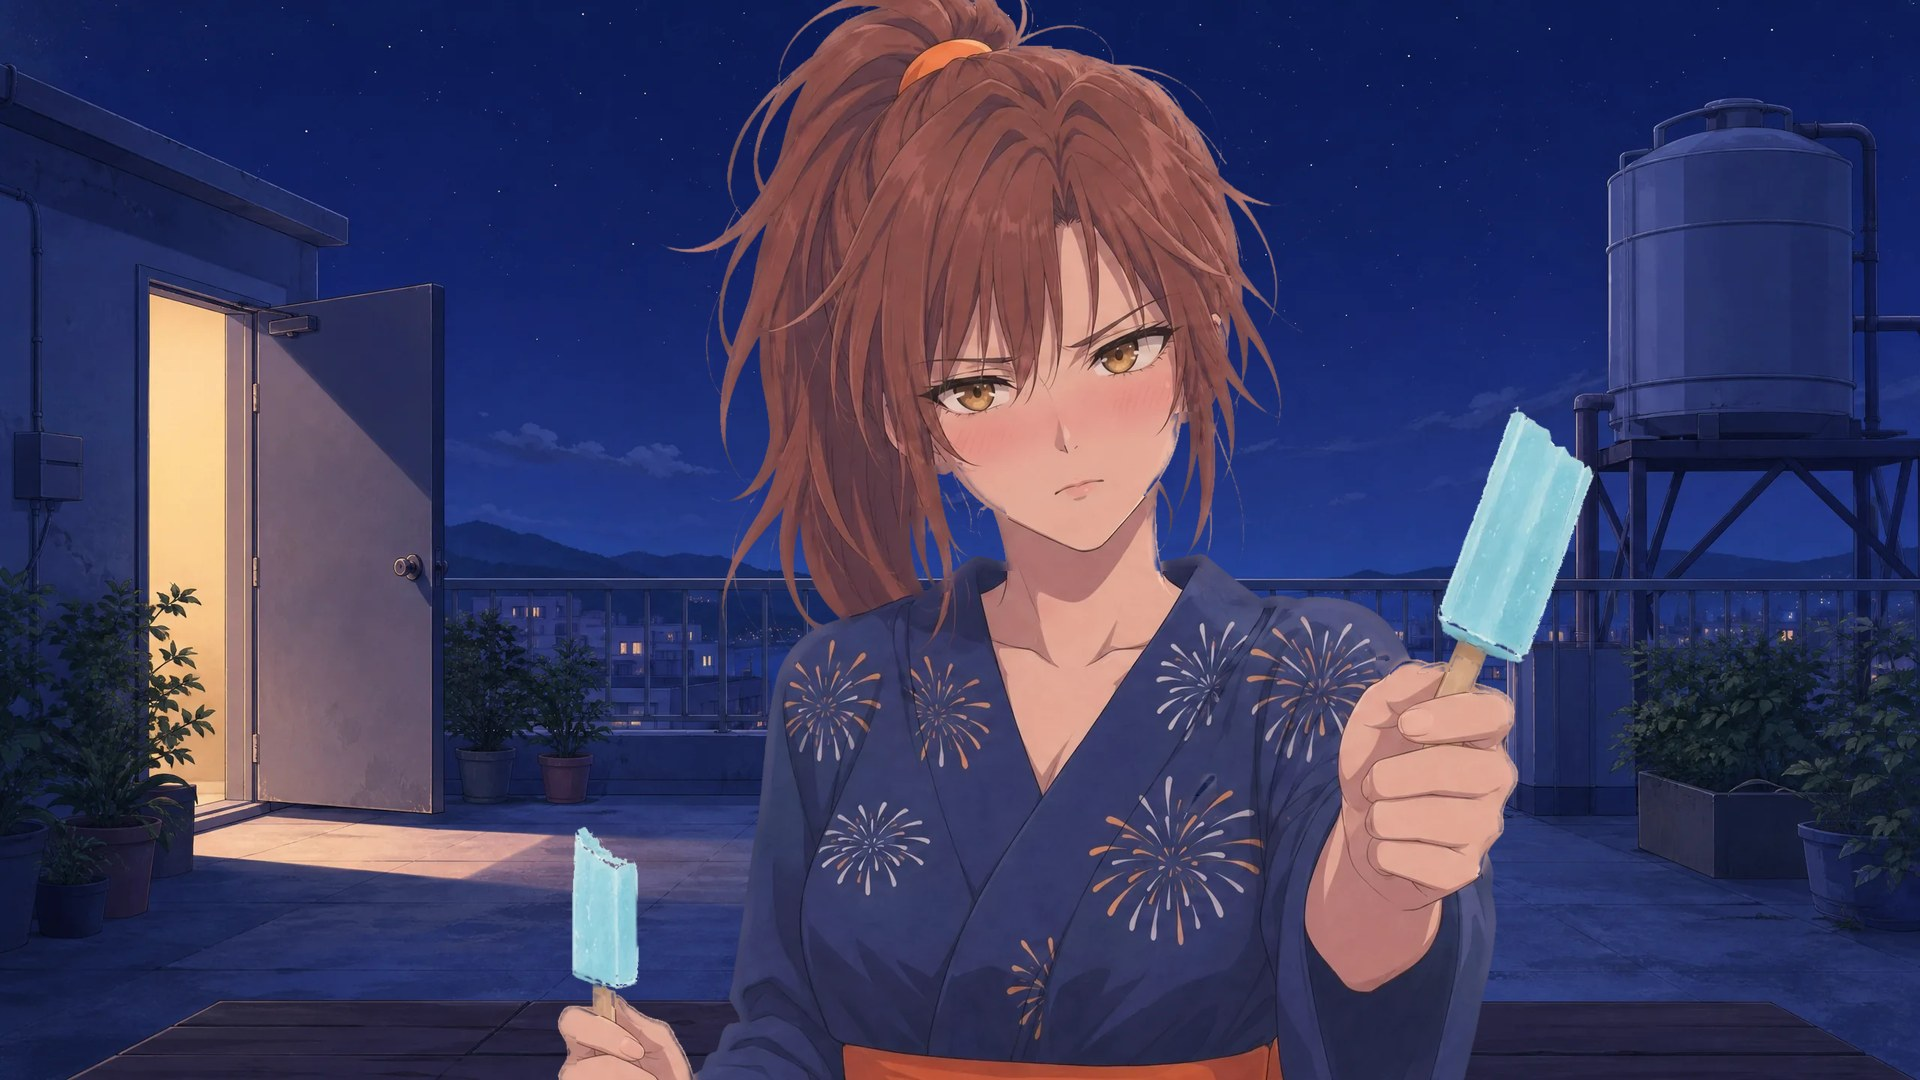
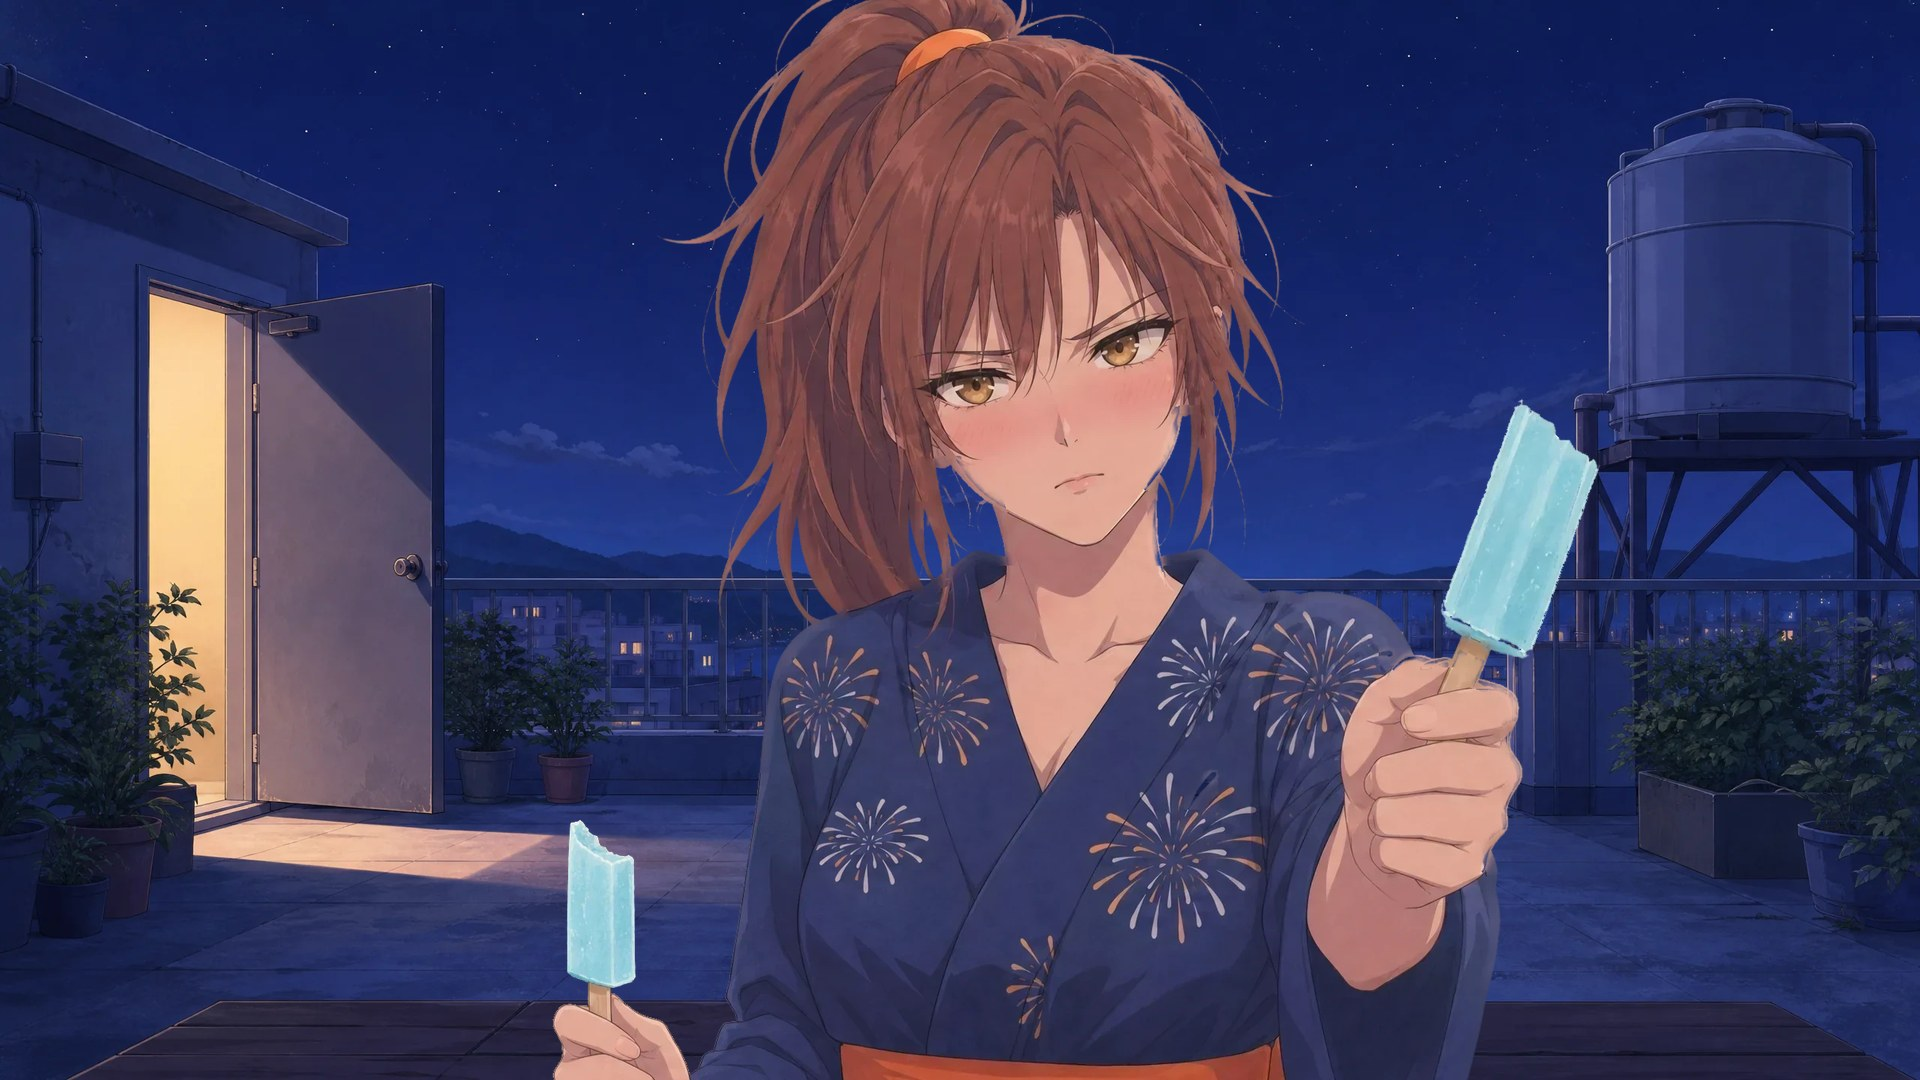
Demo31 popsicle: figure 1.06 high so the cut top is ≥ 1.5 % outside the frame

diff --git a/demos/for-men/Demo31_SummerRooftop/media/layers.js b/demos/for-men/Demo31_SummerRooftop/media/layers.js
@@ -98,7 +98,7 @@ window.MOHEAT_LAYERS = {
     "h": 1440,
     "x": 0.56,
     "y": 1.04,
-    "height": 1.05,
+    "height": 1.06,
     "box": [
      687,
      0,
